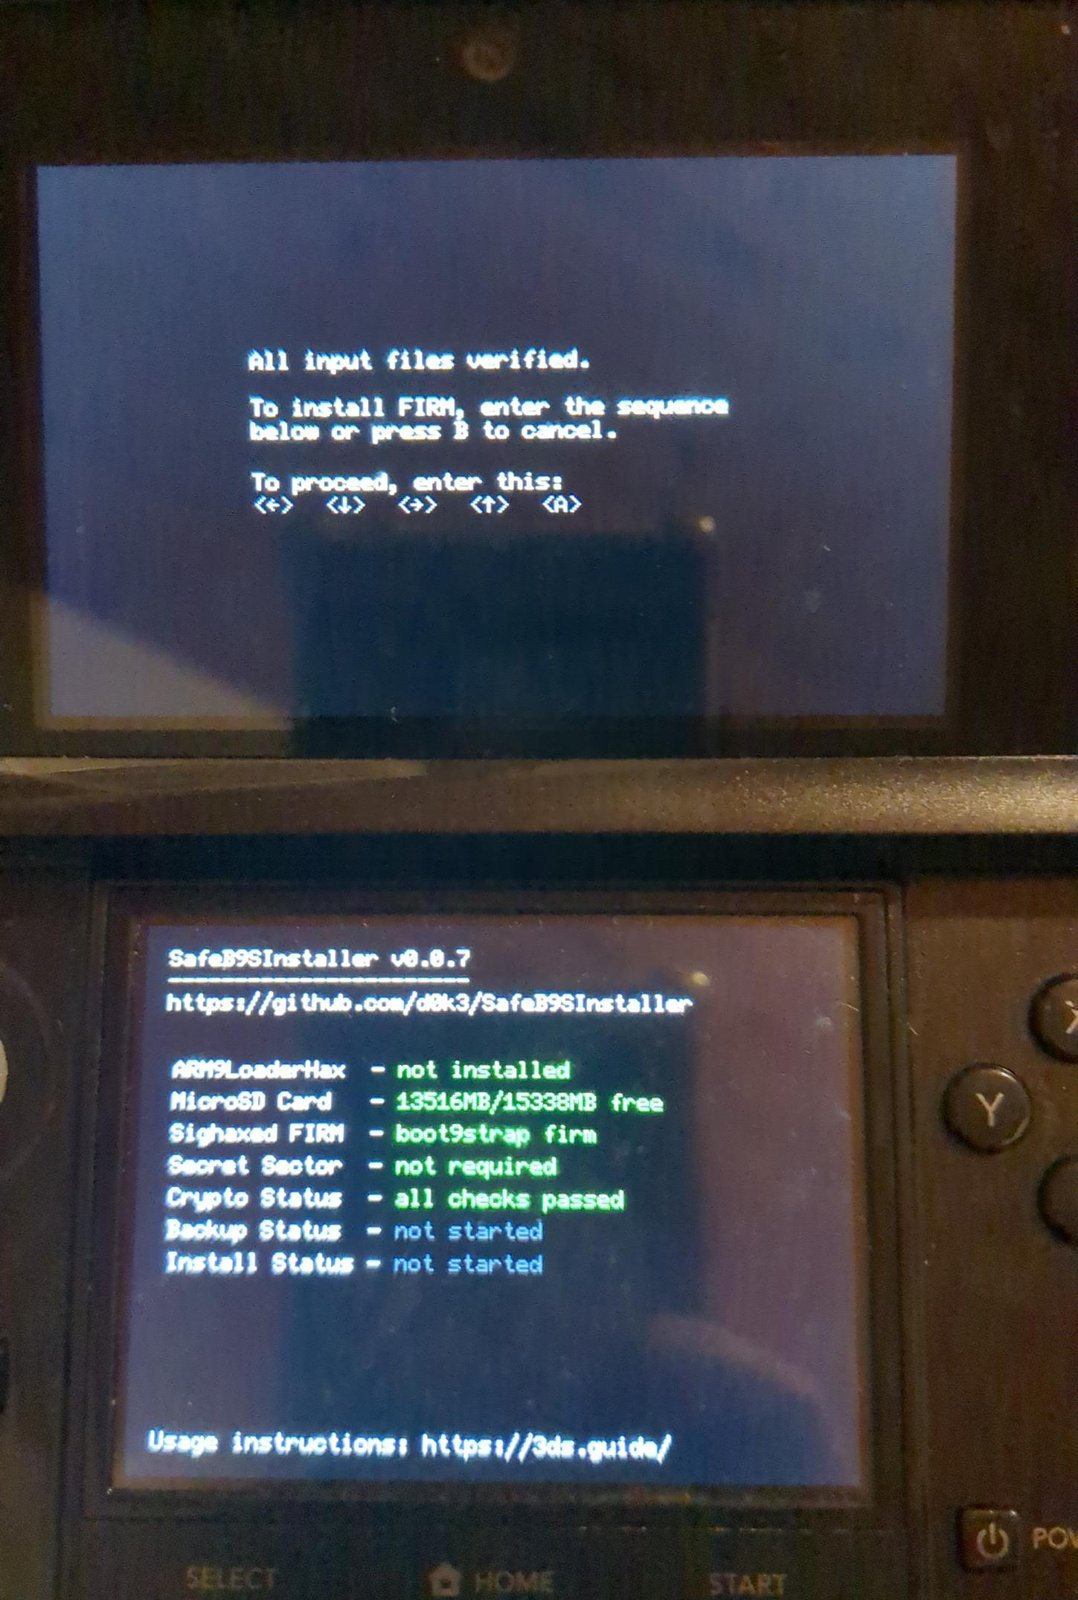
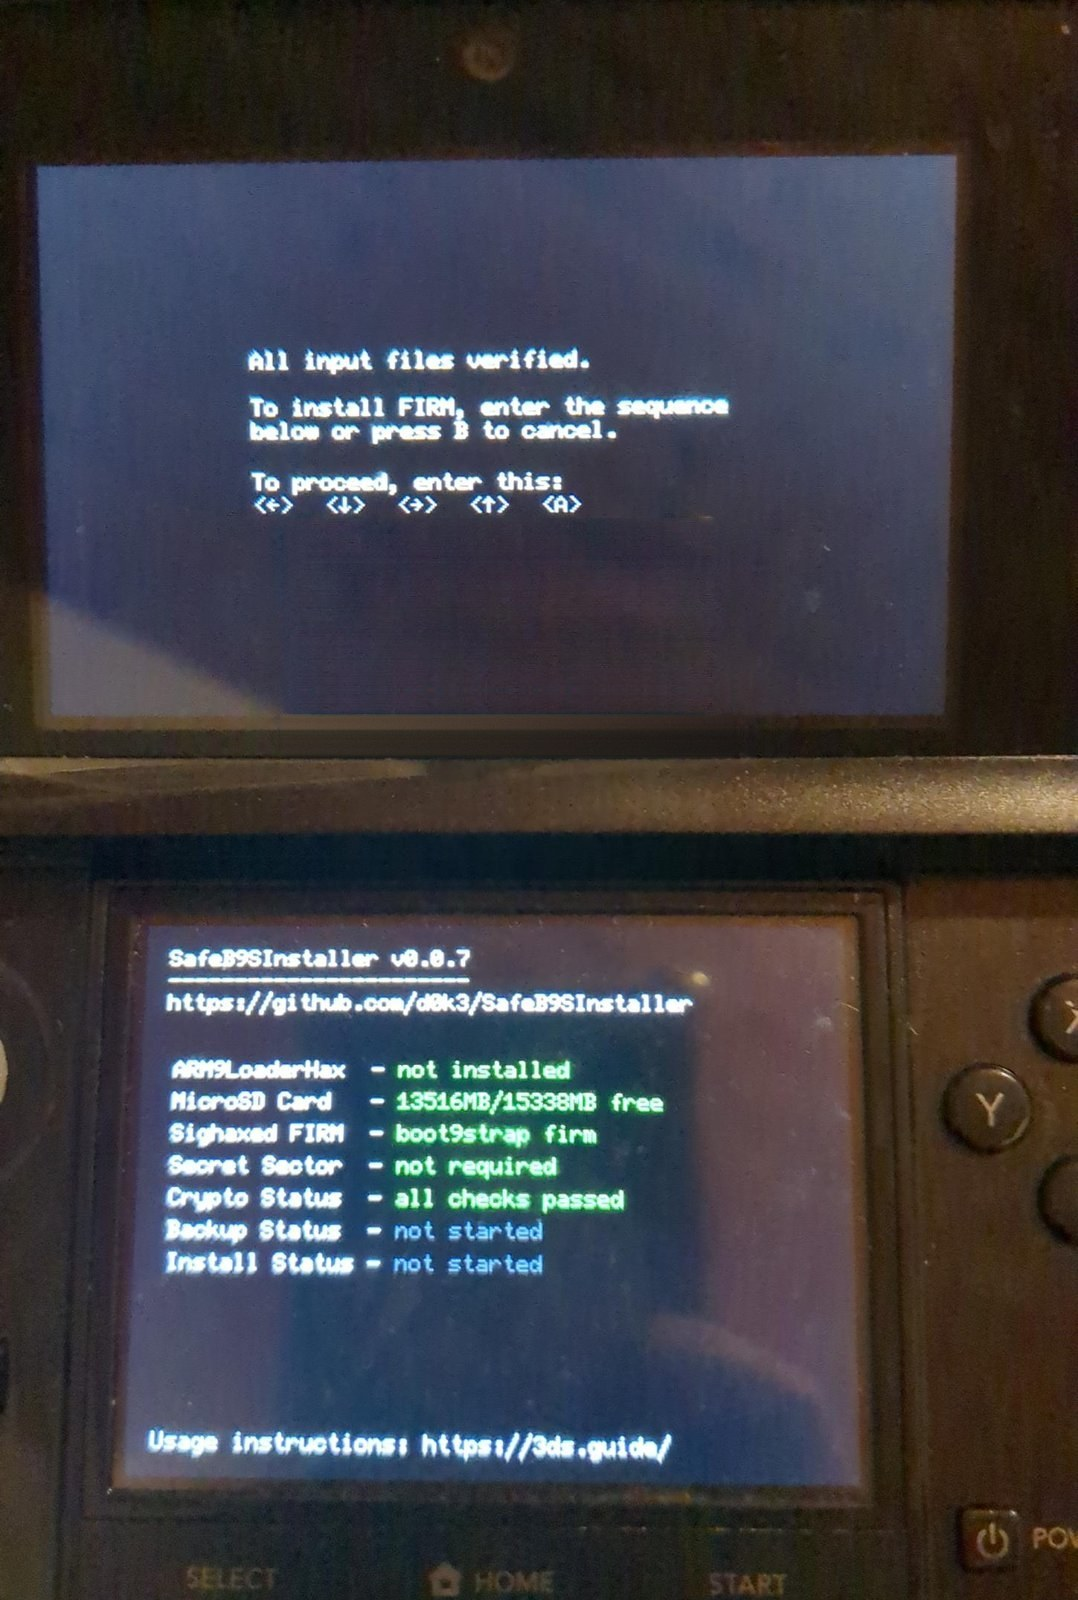
Retouches photos 3DS (reflets) et suppression du bandeau sombre en haut du site
Claude-Session: https://claude.ai/code/session_01KdLH5hjkb8c7v9Q1QMkfb7

Changed region(s): [[0.2449, 0.3125, 0.6735, 0.4688]]

diff --git a/assets/main.scss b/assets/main.scss
@@ -1,0 +1,9 @@
+---
+# Feuille de style du site : thème minima, sans le bandeau sombre en haut de page
+---
+
+@import "minima";
+
+.site-header {
+  border-top: none;
+}

diff --git a/_posts/2026-11-07-3ds-retro.md b/_posts/2026-11-07-3ds-retro.md
@@ -87,7 +87,7 @@ Petite curiosité au passage : la 3DS garde en mémoire l'icône d'une applicati
 
 Le projet [Pretendo Network](https://pretendo.network) a recréé les serveurs de Nintendo : liste d'amis, jeu en ligne pour une partie des titres (Mario Kart 7, par exemple) et même Miiverse, rebaptisé **Juxtaposition**. Une petite application, **Nimbus**, permet de passer d'un serveur à l'autre.
 
-![Nimbus, avec Pretendo sélectionné]({{ "/assets/images/3ds-retro/05-nimbus-pretendo.jpg" | relative_url }})
+![Nimbus, l’application qui fait passer la console sur Pretendo]({{ "/assets/images/3ds-retro/05-nimbus-pretendo.jpg" | relative_url }})
 
 C'est l'étape qui m'a donné le plus de fil à retordre. Trois enseignements :
 
